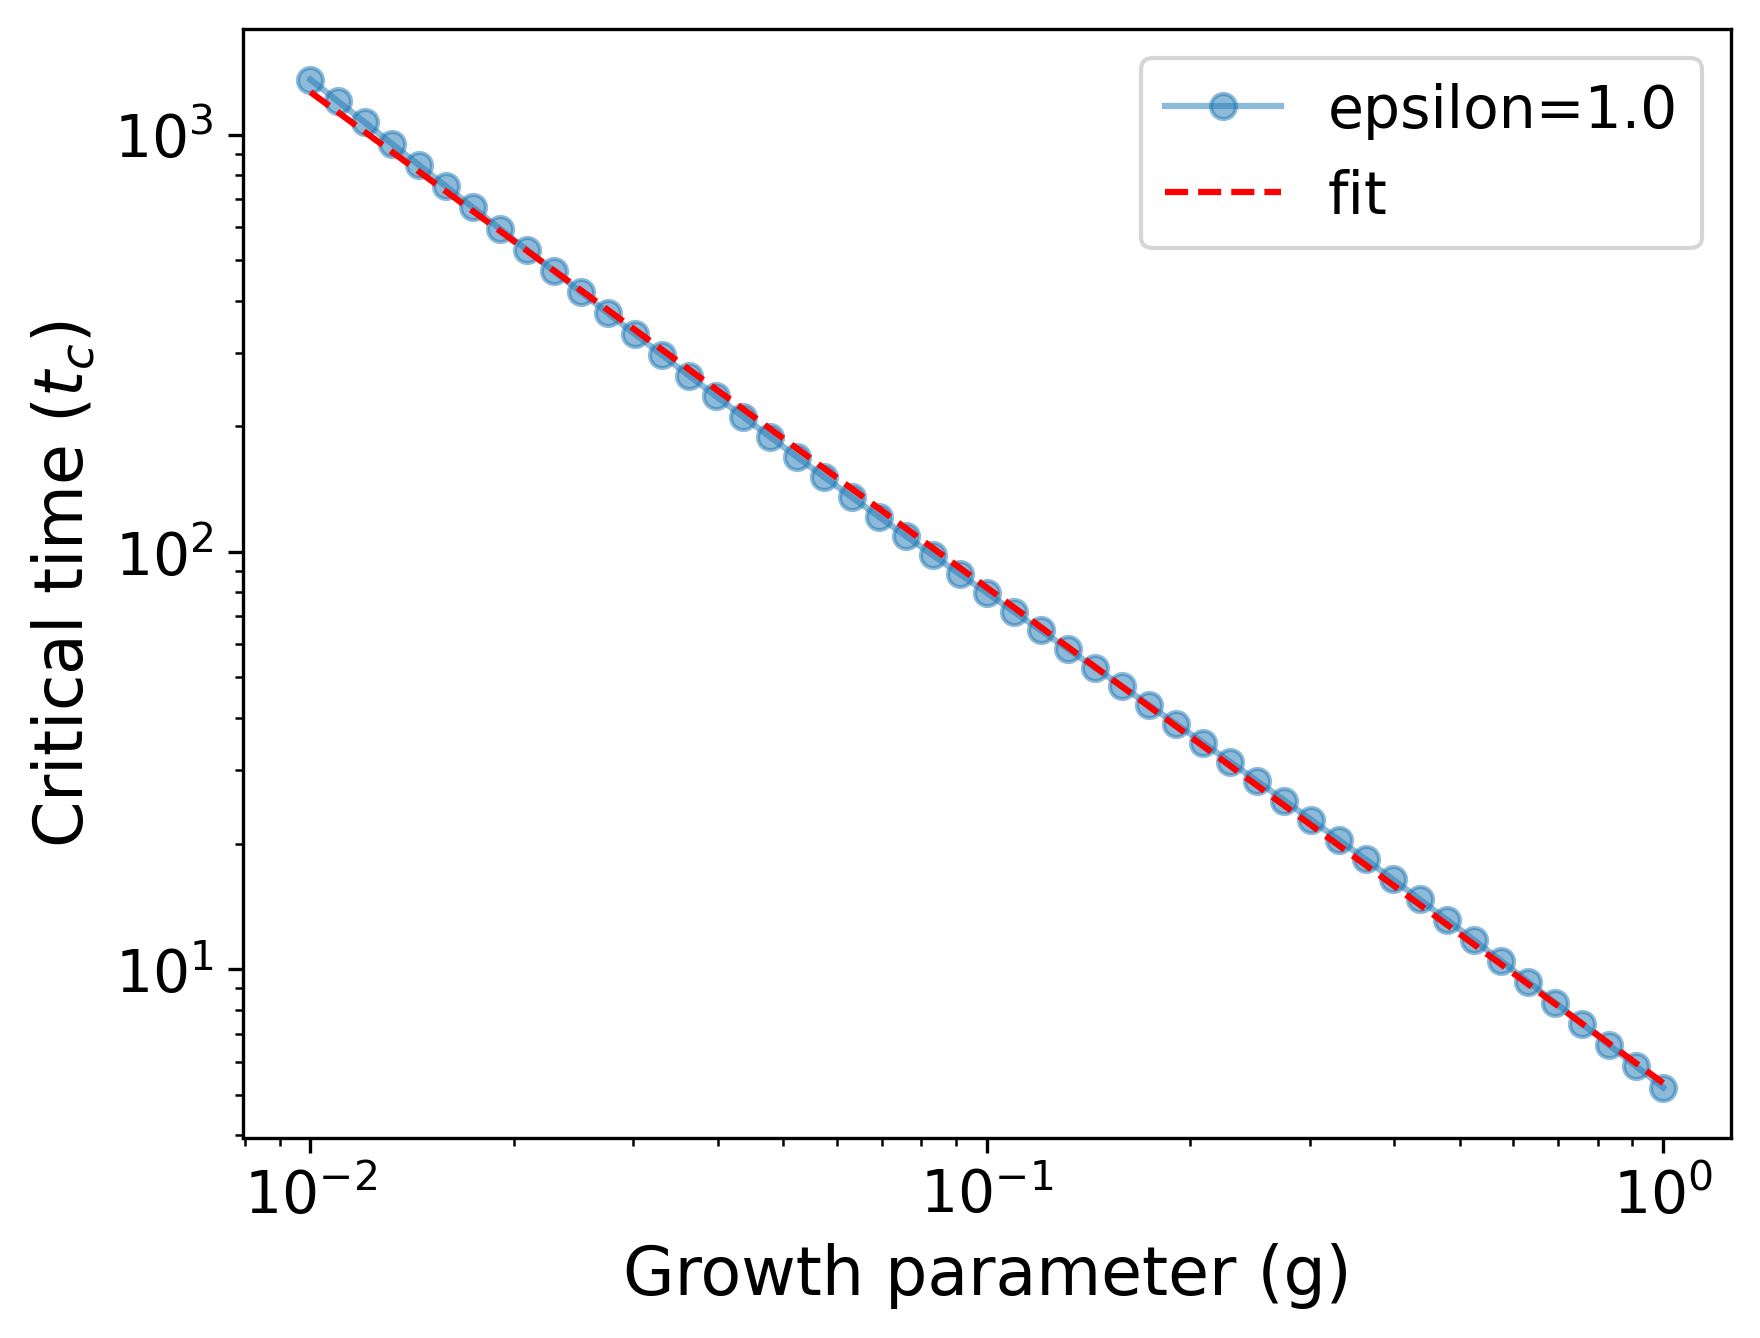
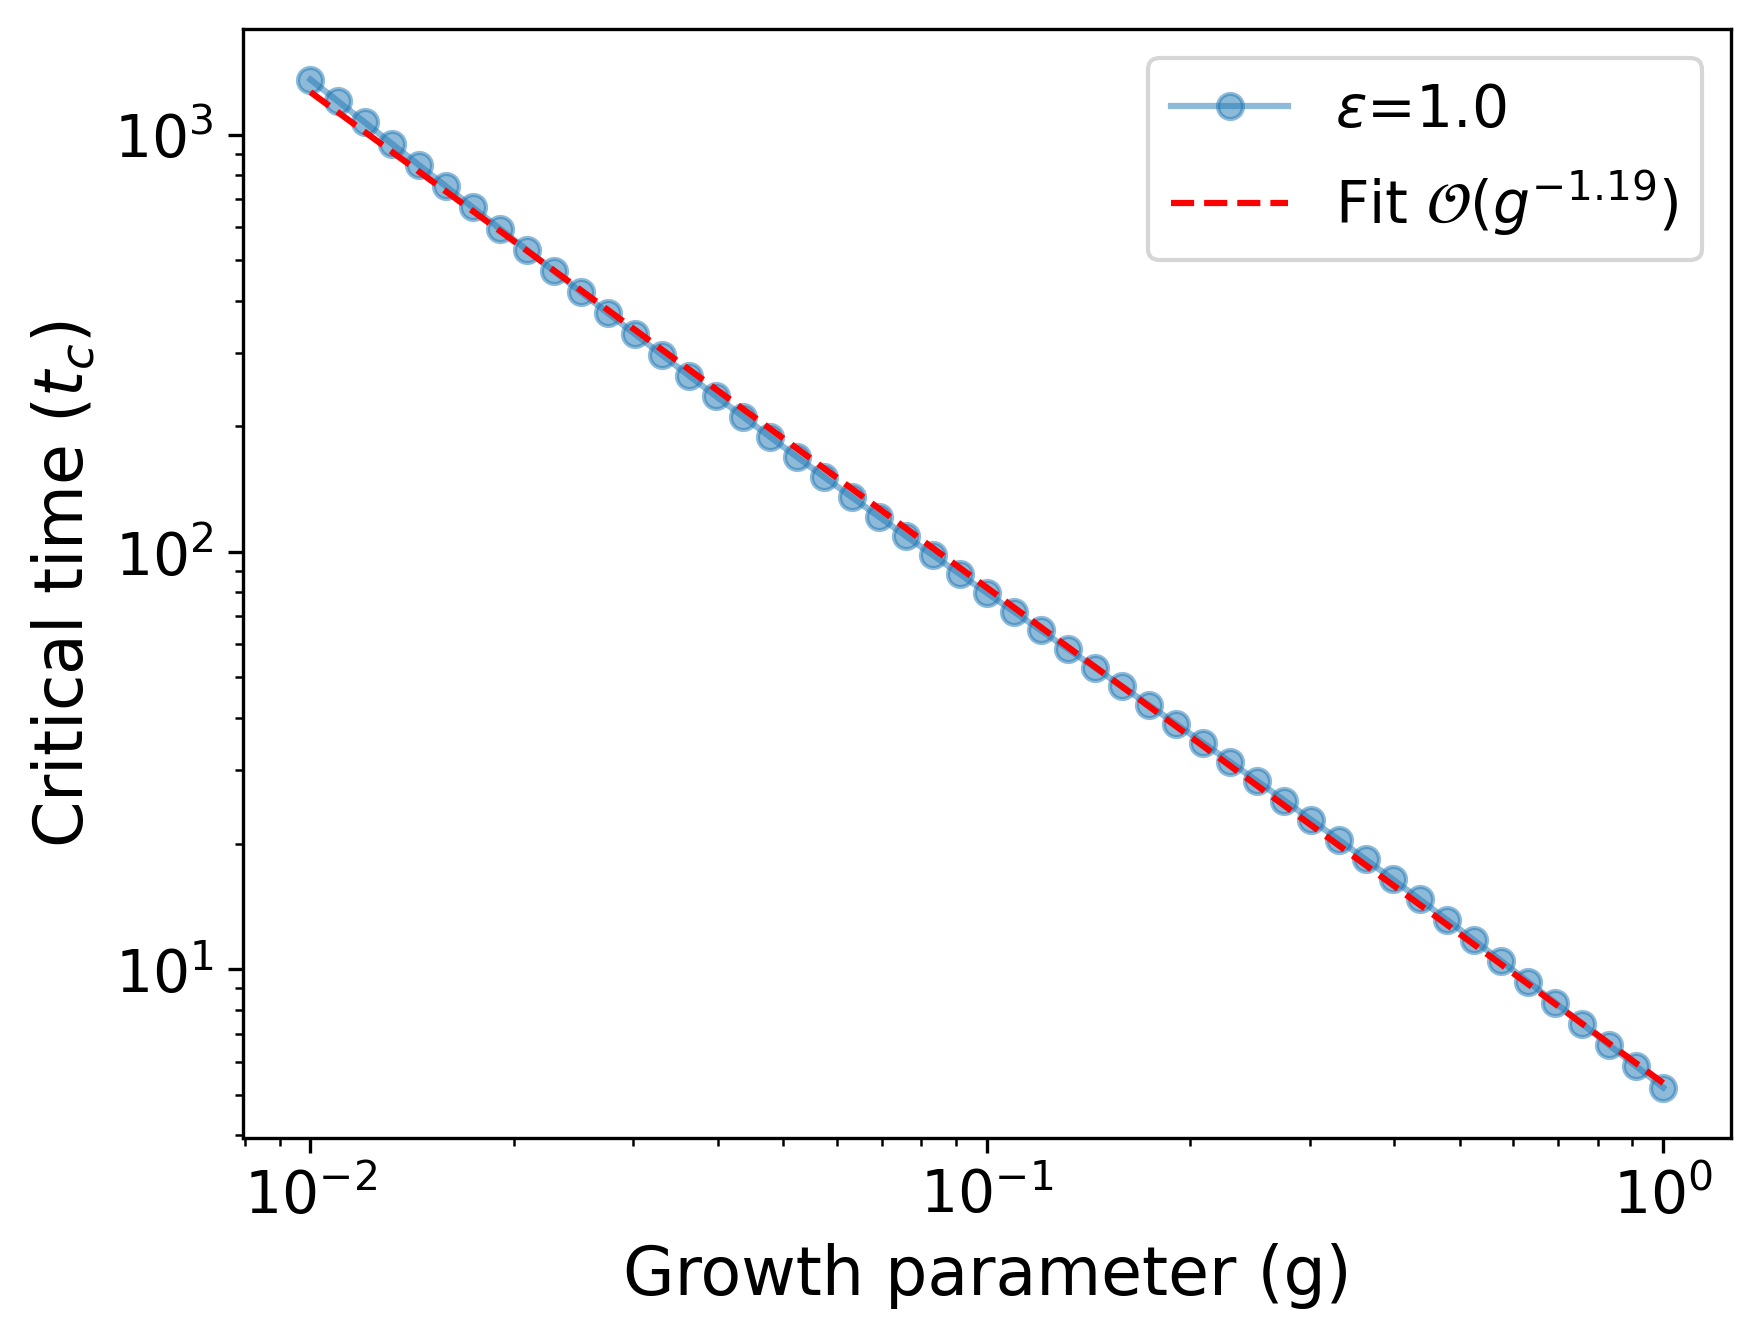
Draw new plots and binding potential

Changed region(s): [[0.625, 0.0613, 0.9688, 0.2145], [0.75, 0.0613, 0.9688, 0.0919], [0.6875, 0.0613, 0.7188, 0.0919]]

diff --git a/phase_diagram.py b/phase_diagram.py
@@ -284,10 +284,10 @@ def plot_layer_phase_diagram_seaborn(
         raise ValueError("No layers found in the data.")
 
     # Build a seaborn color list for layers
-    # If `palette` is a string, seaborn will resolve it to a palette;
-    # if it's a matplotlib colormap, seaborn will sample it too.
-    area_colors = sns.color_palette(palette, n_colors=nL + 1)
-    layers_to_colors = {L: area_colors[i] for i, L in enumerate(layers)}
+    first_color = sns.color_palette("Greens", n_colors = 3)[2] # medium green
+    blue_colors = sns.color_palette("Blues", n_colors = nL) 
+    area_colors = [first_color] + blue_colors
+    layer_name = ["1 Layer", "2 Layer", "3 Layer", "4 Layer"]
 
     # Prepare curves per layer (sorted in x)
     curves = {}
@@ -302,15 +302,10 @@ def plot_layer_phase_diagram_seaborn(
 
     # Plot lines with seaborn
     fig, ax = plt.subplots()
-    for L in layers:
-        if L not in curves:
-            continue
-        x, y = curves[L]
-        sns.lineplot(x=x, y=y, ax=ax,
-                     color=layers_to_colors[L], linewidth=2)
+    
 
     # Helper: fill between two curves over their overlapping x-range
-    def _fill_between_curves(x1, y1, x2, y2, color):
+    def _fill_between_curves(x1, y1, x2, y2, color, label):
         xmin = max(np.nanmin(x1), np.nanmin(x2))
         xmax = min(np.nanmax(x1), np.nanmax(x2))
         if not np.isfinite(xmin) or not np.isfinite(xmax) or xmax <= xmin:
@@ -320,14 +315,14 @@ def plot_layer_phase_diagram_seaborn(
         y2i = np.interp(xgrid, x2, y2)
         y_upper = np.maximum(y1i, y2i)
         y_lower = np.minimum(y1i, y2i)
-        ax.fill_between(xgrid, y_lower, y_upper, color=color, linewidth=0,  label = f"Layer {2}")
+        ax.fill_between(xgrid, y_lower, y_upper, color=color, linewidth=0,  label = label)
 
     # Fill below the first curve down to a baseline (0 by default)
     if layers and layers[0] in curves:
         x0, y0 = curves[layers[0]]
         xgrid = np.linspace(np.nanmin(x0), np.nanmax(x0), 201)
         y0i = np.interp(xgrid, x0, y0)
-        ax.fill_between(xgrid, 0.0, y0i, color=area_colors[0], linewidth=0, label = "Layer 1")
+        ax.fill_between(xgrid, 0.0, y0i, color=area_colors[0], linewidth=0, label = layer_name[0])
 
     # Fill between adjacent layers
     for i in range(nL - 1):
@@ -340,7 +335,7 @@ def plot_layer_phase_diagram_seaborn(
             x2, y2 = curves[L_high]
             x2 = np.r_[x2, 2.0]
             y2 = np.r_[y2, y[-1]]
-            _fill_between_curves(x1, y1, x2, y2, color=area_colors[i+1])
+            _fill_between_curves(x1, y1, x2, y2, color=area_colors[i+1], label = layer_name[i+1])
 
     # Color top area
     xt, yt = curves[layers[-1]]
@@ -349,7 +344,7 @@ def plot_layer_phase_diagram_seaborn(
     # if y_top not given, cap at max y in data or top curve
     ycap = 0.02
     ax.fill_between(xgrid, yti, ycap, color=area_colors[-1],
-                    linewidth=0, label=f"Above {layers[-1]}")
+                    linewidth=0, label= layer_name[-1])
 
     # After filling, draw black outlines for all layer curves
     for L in layers:
@@ -358,14 +353,16 @@ def plot_layer_phase_diagram_seaborn(
             ax.plot(x, y, color="black", linewidth=1.0)
 
     # Labels/legend
-    ax.set_xlabel(r"Energy scale $\epsilon$")
-    ax.set_ylabel(r"Growth rate $g$")
+    ax.set_xlabel(r"Energy scale $(\epsilon)$")
+    ax.set_ylabel(r"Growth rate $(g)$")
     ax.legend(
-    title="Layers",
     bbox_to_anchor=(1.05, 1),   # x, y position of the anchor
     loc="upper left",           # position relative to the anchor
     borderaxespad=0.)
 
+    ax.ticklabel_format(axis='y', style='sci', scilimits=(0,0))
+    ax.set_xlim(0.05, 2)
+    ax.set_ylim(0, 0.0188) # choose endpoint of 2 layer line
     # Tidy layout and save/show
     if plot_filename:
         outdir = os.path.dirname(plot_filename)

diff --git a/plot_from_data.py b/plot_from_data.py
@@ -84,14 +84,14 @@ def plot_critical_time_event_from_csv(csv_filename, xaxis_param='g', series_para
     if series_params:
         grouped = df.groupby(series_params)
         for series_key, group in grouped:
-            opacity = 1
-            #if series_key[0] == 0.5 or series_key[0] == 2: continue
+            opacity = 0.5
+            if series_key[0] == 0.5 or series_key[0] == 2: continue
             group = group.sort_values(by=xaxis_param)
             x_vals = group[xaxis_param].values
             t_vals = group['t_event'].values
             if not isinstance(series_key, tuple):
                 series_key = (series_key,)
-            label = ", ".join([f"{p}={v}" for p, v in zip(series_params, series_key)])
+            label = ", ".join([r"$\epsilon$" + f"={v}" for p, v in zip(series_params, series_key)])
             ax.plot(x_vals, t_vals, marker='o', linestyle='-', label=label, alpha = opacity)
             if fit:
                 # Regression line
@@ -107,7 +107,7 @@ def plot_critical_time_event_from_csv(csv_filename, xaxis_param='g', series_para
                 print(f"Power law fit: g(ε) = {A:.4f} * g^{B:.4f} (R² = {r_value**2:.4f})")
                 x_fit = np.linspace(min(x_vals), max(x_vals))
                 y_fit = A * x_fit**B
-                ax.plot(x_fit, y_fit, 'r--', label = 'fit')
+                ax.plot(x_fit, y_fit, 'r--', label = fr'Fit $\mathcal{{O}}(g^{{{slope:.2f}}})$')
     else:
         group = df.sort_values(by=xaxis_param)
         ax.plot(group[xaxis_param], group['t_event'], marker='o', linestyle='-', label=None)
@@ -383,8 +383,8 @@ if __name__ == "__main__":
         plot_filename = "Results/plots/critical_time_log_log_fit.png"
         plot_critical_time_event_from_csv(
             csv_filename=csv_path,
-            plot_filename=None,
-            loglog=True, fit=False
+            plot_filename=plot_filename,
+            loglog=True, fit=True
         )
 
     elif choice == 'b':

diff --git a/OneD_FDM_simple_model.py b/OneD_FDM_simple_model.py
@@ -203,12 +203,12 @@ class FDM_OneD_Thin_Film_Model(OneD_Base_Model):
 
 if __name__ == "__main__":
     
-    params = {'amplitude': 1.0, 'g': 0.005, 'L': 200, 'N': 2048, 'epsilon': 1}
+    params = {'amplitude': 1.0, 'g': 1, 'L': 200, 'N': 2048, 'epsilon': 1}
     T = 2500
     model = FDM_OneD_Thin_Film_Model(use_numba= False, **params)
     #t_eval = [500, 1000, 1250, 1500, 1750, 2000, 2250, 2500]
     t_eval = np.linspace(0, T, 6)
-
+    """
     h_init = model.setup_initial_conditions('gaussian')
     print(f"Baseline h_b ={model.h0 + 0.01}")
     times, H = model.solve(h_init, T = T, t_eval = t_eval, method = 'LSODA', event = False)
@@ -224,13 +224,13 @@ if __name__ == "__main__":
 
     plot_filename = 'thin_film_g10-1_eps1_t200_L200'
     save_filename = "Results/values/thin_film_profile.npz"
-
+    """
     figure_handler = fh.FigureHandler(model)
-    model.save_profile_values(times, H, save_filename)
-    figure_handler.plot_profiles(H.T, times, pot_minima = h_mins, plot_filename = None)
-    #figure_handler.plot_growth(H.T, times)
+    #model.save_profile_values(times, H, save_filename)
+    #figure_handler.plot_profiles(H.T, times, pot_minima = h_mins, plot_filename = None)
+    
     #figure_handler.plot_binding_energy(model.f, filename = "binding_potential")
-    #figure_handler.plot_growth_function(model.growth_term, filename = "growth_function")
+    figure_handler.plot_growth_function(model.growth_term, filename = "growth_function")
     #print(f"Minima of g\u2081 are found at {h_mins} \n with values {g1_mins}.")
     #figure_handler.plot_free_energy(H, times)
 

diff --git a/binding_potential_plots.py b/binding_potential_plots.py
@@ -1,0 +1,57 @@
+import numpy as np
+import matplotlib.pyplot as plt
+
+def f(x):
+    return 0.2 / (x**2)
+
+
+def g(x):
+    a = 0.25
+    # h(x) = 1.5*cos(2πx + 0.3π)*e^{-x/1} + 10*e^{-x/0.01}
+    return 1.5 * np.cos(2.0 * np.pi * (x-a) + 0.3 * np.pi) * np.exp(-(x-a)) + 10.0 * np.exp(-(x-a) / 0.01)
+
+def h(x):
+    # g(x) = 0.5 * ( -1/(2 x^2) + 0.3^3/(5 x^5) )
+    return 0.5 * ( -1.0 / (2.0 * x**2) + (0.3**3) / (5.0 * x**5) )
+
+def main():
+    # Domain (avoid x=0 to prevent division-by-zero)
+    x_min, x_max = 0.1, 4
+    x = np.linspace(x_min, x_max, 10001)
+
+    y_f = f(x)
+    y_g = g(x)
+    y_h = h(x)
+    y_lo = -2
+    y_hi = 2
+
+    fig, axes = plt.subplots(1, 3, figsize=(12, 4), sharex=True, sharey=True)
+
+    # Plot f
+    axes[0].plot(x, y_f)
+    #axes[0].grid(True, alpha=0.3)
+
+    # Plot g
+    axes[1].plot(x, y_g)
+    #axes[1].grid(True, alpha=0.3)
+
+    # Plot h
+    axes[2].plot(x, y_h)
+    #axes[2].grid(True, alpha=0.3)
+
+    # Shared axes labels & limits
+    for ax in axes:
+        ax.set_xlim(x_min, x_max)
+        ax.set_ylim(y_lo, y_hi)
+        ax.axhline(0, color="black", linewidth=1, linestyle="-")
+    fig.supxlabel("h")
+    fig.supylabel("f(h)")
+
+    fig.tight_layout()
+    plot_filename = "Results/plots/binding_potentials.png"
+    plt.savefig(plot_filename, dpi = 300, bbox_inches = 'tight')
+    print(f"file saved to {plot_filename}")
+    plt.show()
+
+if __name__ == "__main__":
+    main()

diff --git a/figure_handler.py b/figure_handler.py
@@ -47,9 +47,20 @@ class FigureHandler:
         plt.plot(h_array, g(h_array))
         plt.xlabel('h')
         plt.ylabel('G(h)')
-        plt.xlim(0, h_max)
         #plt.title("Growth function")
         plt.axhline(y=0, color='black', linestyle='--')
+        ticks, labels = plt.xticks()
+        ticks = list(ticks)
+        labels = [lab.get_text() for lab in labels]
+        ticks.append(self.model.ha)
+        labels.append(r"$h_a$")
+        ticks.append(0.2)
+        labels.append(r"$h_f$")
+        ticks.append(5)
+        labels.append(r"$h_{max}$")
+        plt.xticks(ticks, labels)
+        plt.xlim(0, h_max)
+
         if filename:
             self.save_figure(filename)
 
@@ -119,7 +130,7 @@ class FigureHandler:
         plt.ylabel('G(h(x))')
         plt.legend(loc = 'right')
         if filename:
-            self.save_figure(filename)
+            self.save_figure(filename, dpi = 300, bbox_inches = 'thight')
 
     def plot_free_energy(self, H, times, filename = None):
         # Convert to numpy array to use slice operations

diff --git a/OneD_thin_film_model.py b/OneD_thin_film_model.py
@@ -40,6 +40,7 @@ class OneD_Base_Model(ABC):
         self.h1 = minima[1]
         self.h2 = minima[2]
         self.ha = p['ha'] # activation point
+        self.hf = p['hf']
 
     @abstractmethod
     def _setup_numerical_operators(self):
